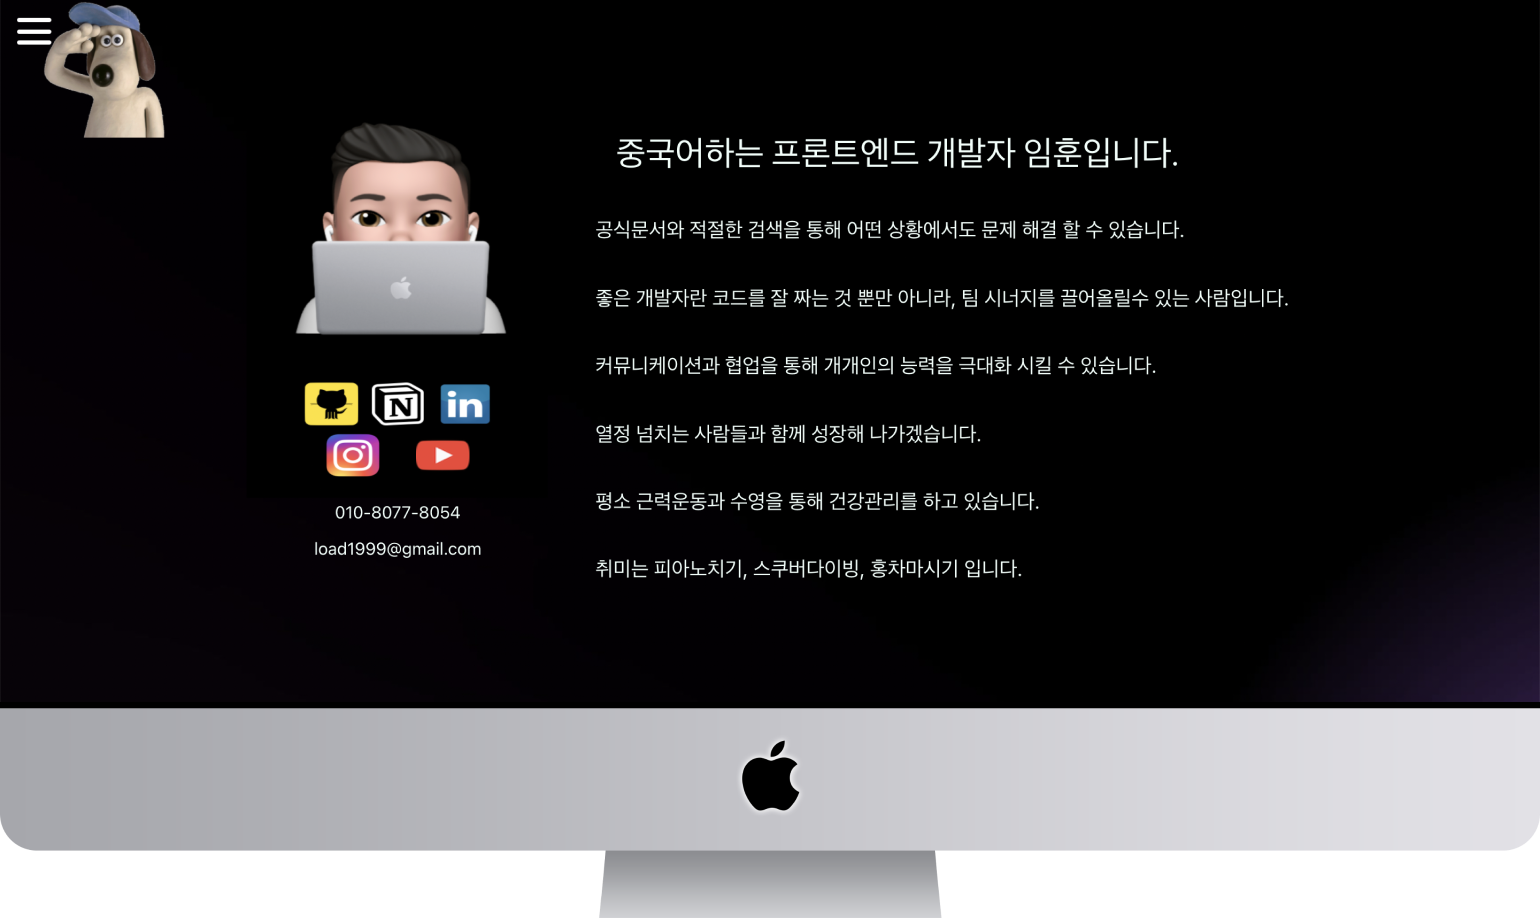
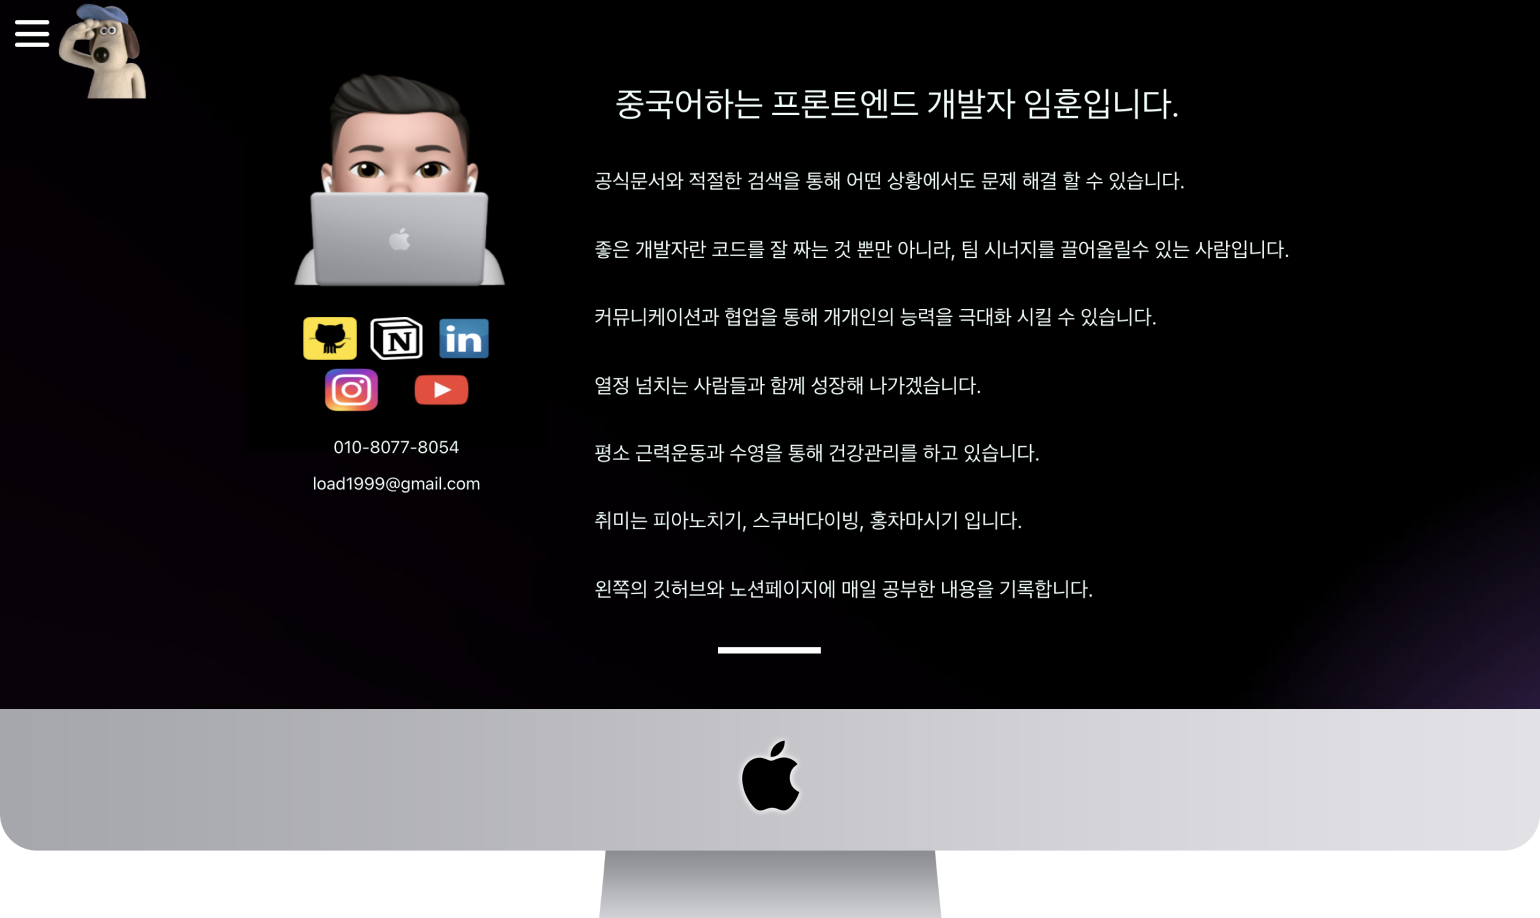
about,portfolio 위치수정

diff --git a/HunPage-client/src/pages/AboutMePage.js b/HunPage-client/src/pages/AboutMePage.js
@@ -6,6 +6,10 @@ import "aos/dist/aos.css";
 
 export const ContentContainer = Styled.div`
   display: flex;
+  position: relative;
+  bottom:5em;
+  left:16em;
+  /* border:solid #fff; */
 `;
 
 export const TitleColumn = Styled.div`
@@ -19,8 +23,8 @@ export const MyPhoto = Styled.img`
     padding:0;
     width: 20vw;
     position: relative;
-    left:14em;
-    bottom:10em;
+    right:0.5em;
+    bottom:5em;
     height:80vh;
 `;
 
@@ -28,8 +32,8 @@ export const SnsIconWrapper = Styled.div`
   margin:0;
   padding:0;
   position: absolute;
-  top:27rem;
-  left :16.5rem;
+  top:24rem;
+  left :2rem;
   width: 15vw;
   height:10vh;
 `;
@@ -62,6 +66,10 @@ export const SnsIconContent = Styled.img`
   color: #fff;
   font-size:30px !important;
 `;
+export const Email = Styled.a`
+  text-decoration:none;
+  color:white;
+`;
 
 export const Contact = Styled.p`
   margin: 0;
@@ -78,7 +86,7 @@ export const ContentTitle = Styled.p`
     position: relative;
     font-size:2em;
     bottom:0.8em;
-    left:9em;
+    left:2em;
     width:60vw;
 `;
 
@@ -87,7 +95,7 @@ export const Content = Styled.p`
     position: relative;
     font-size:1.2em;
     bottom:2em;
-    left:14em;
+    left:2em;
     width:60vw;
 `;
 
@@ -111,6 +119,8 @@ export const SkillContent = Styled.p`
 export const BlankContent = Styled.p`
   display: flex;
   justify-content:center;
+  position: relative;
+  bottom:5em;
 `;
 
 export const BlankImg = Styled.a`
@@ -288,7 +298,9 @@ const AboutMePage = () => {
             </SnsIconButton>
           </SnsIconButtonWrapper>
           <Contact>010-8077-8054</Contact>
-          <Contact>load1999@gmail.com</Contact>
+          <Contact>
+            <Email href="mailto:load1999@gmail.com?">load1999@gmail.com</Email>
+          </Contact>
         </SnsIconWrapper>
         <TitleColumn>
           <ContentTitle data-aos="fade-right">

diff --git a/HunPage-client/src/pages/PortfolioPage.js b/HunPage-client/src/pages/PortfolioPage.js
@@ -8,11 +8,12 @@ export const PortfolioWrapper = Styled.div`
 
 export const PortfolioDescript = Styled.div`
   position: relative;
-  bottom: 9em;
-  left:4em;
+  bottom: 12em;
+  left : 4em;
   margin:8em;
-  width:40%;
+  width:20%;
   height:70vh;
+  /* border:solid #fff; */
 `;
 
 export const PortfolioDescriptTitle = Styled.p`
@@ -56,7 +57,8 @@ export const PortfolioContent = Styled.div`
     flex-direction:column;
     float: right;
     position: relative;
-    right: 1em;
+    bottom:4em;
+    left:2em;
     /* justify-content:center; */
     /* align-items:center; */
 `;

diff --git a/HunPage-client/src/components/Logo.js b/HunPage-client/src/components/Logo.js
@@ -21,9 +21,10 @@ export const LogoContainer = Styled.div`
 export const LogoImg = Styled.img`
   text-decoration: none;
   width:100%;
-  height:100%;
+  height:70%;
   position: relative;
   top:0.4em;
+  left: 1em;
 
 `;
 
